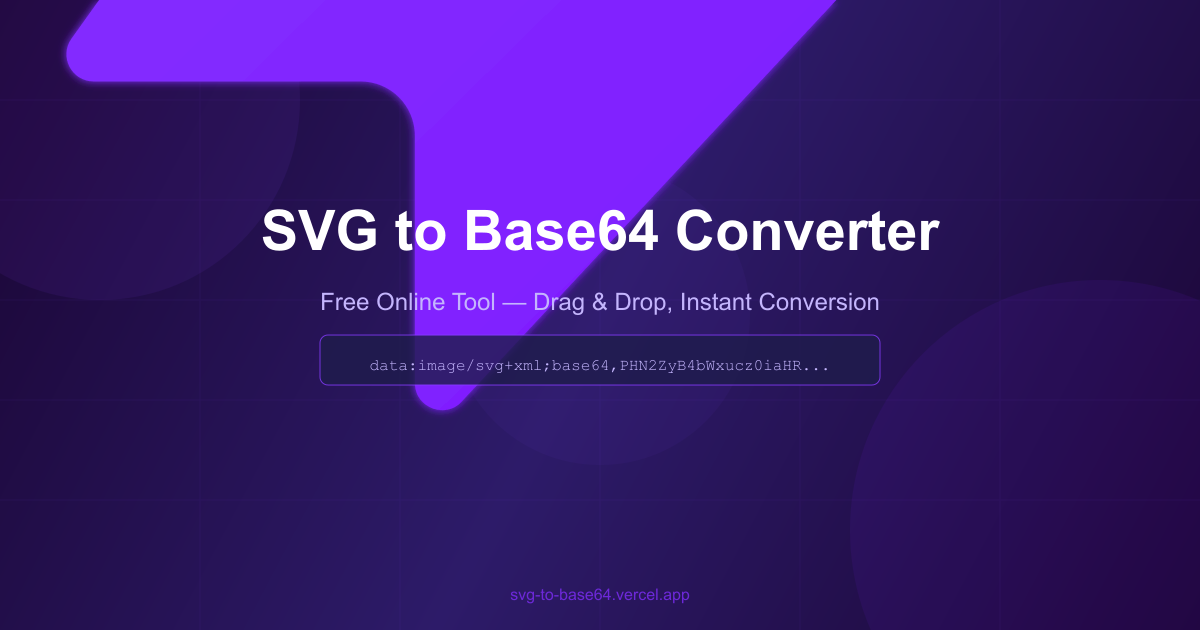
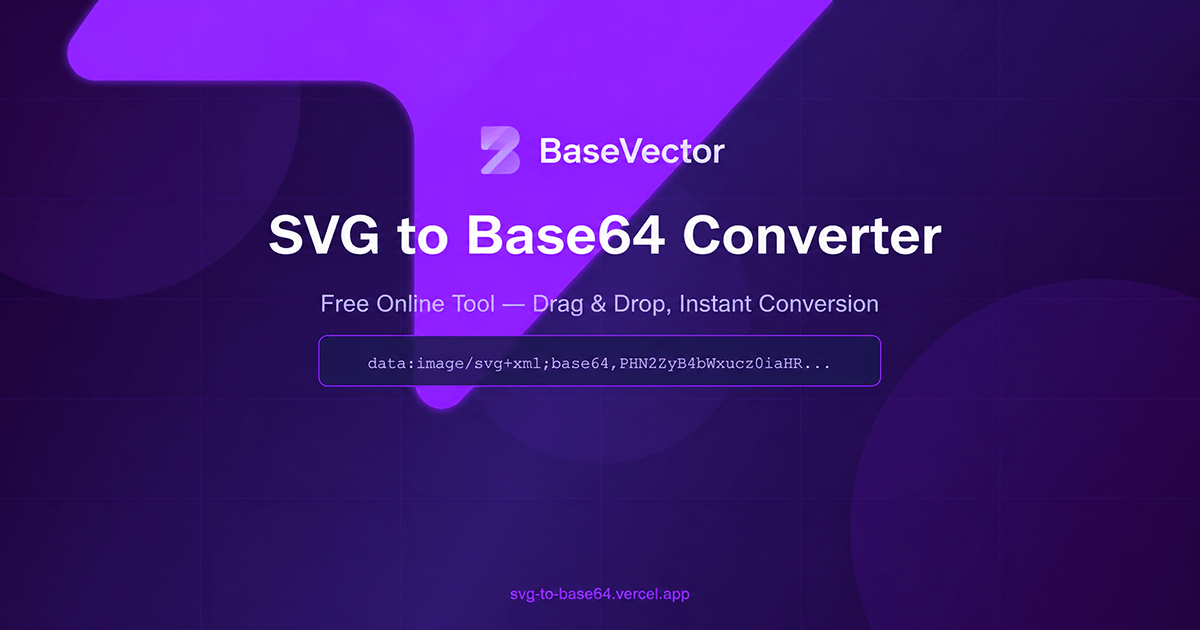
feat: rebrand to BaseVector
- Rename project from svg-to-base64 to BaseVector
- Update all metadata, titles, and descriptions
- Add BaseVector brand to Header, Footer, InfoSection, DonationCard
- Update package.json, site.webmanifest, sitemap.xml, README.md

diff --git a/app/layout.tsx b/app/layout.tsx
@@ -16,12 +16,13 @@ export const metadata: Metadata = {
     ],
   },
   title: {
-    default: 'SVG to Base64 Converter — Free Online Tool',
-    template: '%s | SVG to Base64 Converter',
+    default: 'BaseVector — Free SVG to Base64 Converter',
+    template: '%s | BaseVector',
   },
   description:
-    'Free SVG to Base64 online converter. Drag and drop SVG files to get Base64 strings, CSS background-image, or HTML img code instantly. No sign-up needed.',
+    'BaseVector — free online SVG to Base64 converter. Drag and drop SVG files to get Base64 strings, CSS background-image, or HTML img code instantly. No sign-up needed.',
   keywords: [
+    'BaseVector',
     'SVG to base64',
     'SVG converter',
     'base64 encoder',
@@ -51,9 +52,9 @@ export const metadata: Metadata = {
   },
   openGraph: {
     type: 'website',
-    siteName: 'SVG to Base64 Converter',
+    siteName: 'BaseVector',
     url: 'https://svg-to-base64.vercel.app/',
-    title: 'SVG to Base64 Converter — Free Online Tool',
+    title: 'BaseVector — Free SVG to Base64 Converter',
     description:
       'Convert SVG files to Base64 strings, CSS background-image, or HTML img code. Drag and drop, get ready-to-use code in multiple formats, copy with one click.',
     images: [
@@ -62,7 +63,7 @@ export const metadata: Metadata = {
         type: 'image/png',
         width: 1200,
         height: 630,
-        alt: 'SVG to Base64 Converter — Free Online Tool',
+        alt: 'BaseVector — Free SVG to Base64 Converter',
       },
     ],
     locale: 'en_US',
@@ -71,19 +72,19 @@ export const metadata: Metadata = {
     card: 'summary_large_image',
     site: '@modeusweb',
     creator: '@modeusweb',
-    title: 'SVG to Base64 Converter — Free Online Tool',
+    title: 'BaseVector — Free SVG to Base64 Converter',
     description:
       'Convert SVG files to Base64 strings, CSS background-image, or HTML img code. Free, fast, no sign-up.',
     images: [
       {
         url: 'https://svg-to-base64.vercel.app/og-image.png',
-        alt: 'SVG to Base64 Converter — Free Online Tool',
+        alt: 'BaseVector — Free SVG to Base64 Converter',
       },
     ],
   },
   category: 'technology',
   classification: 'Developer Tools',
-  applicationName: 'SVG to Base64 Converter',
+  applicationName: 'BaseVector',
 }
 
 export const viewport: Viewport = {
@@ -100,7 +101,7 @@ export default function RootLayout({
   return (
     <html lang="en">
       <head>
-        <meta name="apple-mobile-web-app-title" content="SVG to Base64" />
+        <meta name="apple-mobile-web-app-title" content="BaseVector" />
         <meta name="mobile-web-app-capable" content="yes" />
         <meta name="apple-mobile-web-app-status-bar-style" content="default" />
         <link rel="manifest" href="/site.webmanifest" />
@@ -112,10 +113,10 @@ export default function RootLayout({
             __html: JSON.stringify({
               '@context': 'https://schema.org',
               '@type': 'WebApplication',
-              name: 'SVG to Base64 Converter',
+              name: 'BaseVector',
               url: 'https://svg-to-base64.vercel.app/',
               description:
-                'Free online converter that turns SVG files into base64-encoded data URIs, CSS background-image rules, and HTML img code.',
+                'BaseVector — free online SVG to Base64 converter. Turns SVG files into base64-encoded data URIs, CSS background-image rules, and HTML img code.',
               applicationCategory: 'DeveloperApplication',
               operatingSystem: 'Any',
               browserRequirements: 'Requires JavaScript',

diff --git a/src/components/InfoSection.tsx b/src/components/InfoSection.tsx
@@ -3,24 +3,24 @@ export function InfoSection() {
   return (
     <article className="bg-white dark:bg-gray-800 rounded-xl p-6 shadow-lg">
       <h2 className="text-xl font-bold text-gray-800 dark:text-white mb-4">
-        What is an SVG to Base64 Converter?
+        What is BaseVector?
       </h2>
       <div className="text-gray-600 dark:text-gray-300 leading-relaxed text-sm space-y-4">
         <p>
-          An SVG to base64 converter is a free online tool that transforms Scalable Vector Graphics
+          BaseVector is a free online SVG to base64 converter that transforms Scalable Vector Graphics
           (SVG) files into base64-encoded data URIs. These encoded strings can be used directly in
           multiple formats: raw Base64 strings, CSS background-image rules, and HTML img tags. This
           eliminates extra HTTP requests and lets you embed icons and images inline — ideal for
           icon systems, CSS sprites, and performance optimization.
         </p>
         <p>
-          Simply drag and drop an SVG file into the upload area (or click to browse), and the
-          converter instantly generates ready-to-paste code in your chosen format with a live
+          Simply drag and drop an SVG file into the upload area (or click to browse), and BaseVector
+          instantly generates ready-to-paste code in your chosen format with a live
           preview. This free online tool supports files up to 4MB and includes features like zoom
           control, format minification, copy to clipboard, and download options.
         </p>
         <p>
-          Try this free online tool now — no registration required, no file uploads to servers.
+          Try BaseVector now — no registration required, no file uploads to servers.
           All conversion happens directly in your browser for maximum privacy and security.
         </p>
       </div>

diff --git a/src/components/Header.tsx b/src/components/Header.tsx
@@ -1,8 +1,13 @@
 export function Header() {
   return (
     <header className="text-center mb-8">
-      <h1 className="text-4xl md:text-5xl font-bold text-gray-800 dark:text-white mb-4">
-        SVG to Base64 Converter
+      <h1 className="mb-3">
+        <span className="block text-5xl md:text-6xl font-bold bg-gradient-to-br from-purple-700 via-violet-500 to-indigo-400 bg-clip-text text-transparent tracking-tight">
+          BaseVector
+        </span>
+        <span className="block text-xl md:text-2xl font-bold text-gray-700 dark:text-gray-200 mt-3">
+          Free SVG to Base64 Converter
+        </span>
       </h1>
       <p className="text-lg text-gray-600 dark:text-gray-300">
         Convert SVG files to Base64, CSS, and HTML formats

diff --git a/app/page.tsx b/app/page.tsx
@@ -88,8 +88,8 @@ function HomePage() {
         <section className="mt-8 max-w-7xl mx-auto" aria-label="Share this tool">
           <SocialSharing
             url="https://svg-to-base64.vercel.app/"
-            title="SVG to Base64 Converter — Free Online Tool"
-            description="Free SVG to Base64 online converter. Drag and drop SVG files to get Base64 strings, CSS background-image, or HTML img code instantly."
+            title="BaseVector — Free SVG to Base64 Converter"
+            description="BaseVector — free online SVG to Base64 converter. Drag and drop SVG files to get Base64 strings, CSS background-image, or HTML img code instantly."
           />
         </section>
 

diff --git a/src/components/DonationCard.tsx b/src/components/DonationCard.tsx
@@ -24,7 +24,7 @@ export function DonationCard({ walletCopied, onCopyWallet }: DonationCardProps) 
             Enjoying this tool?
           </h3>
           <p className="text-gray-600 dark:text-gray-300 leading-relaxed text-sm mb-4">
-            This SVG converter is free and will always stay free. If it saved you
+            This BaseVector SVG converter is free and will always stay free. If it saved you
             some time, consider buying me a coffee — every little bit keeps
             this project running and improving. ☕
           </p>

diff --git a/README.md b/README.md
@@ -1,10 +1,11 @@
-# SVG to Base64 Converter
+# BaseVector
 
 A modern web application that converts SVG files to multiple output formats with base64 encoding. Built with React, Next.js, and Tailwind CSS.
 
 ![React](https://img.shields.io/badge/React-19.3.0-blue)
 ![Next.js](https://img.shields.io/badge/Next.js-16.3.5-black)
 ![Tailwind CSS](https://img.shields.io/badge/Tailwind-4.0.0-38bdf8)
+![BaseVector](https://img.shields.io/badge/BaseVector-v1.0.0-863bff)
 
 
 ## Demo
@@ -92,7 +93,7 @@ npm run start
 - **Click to Upload**: Click the upload zone and select your SVG file from the file dialog
 
 ### Step 2: Automatic Conversion
-The application automatically converts your SVG to base64 format and displays the output in your selected format.
+The BaseVector application automatically converts your SVG to base64 format and displays the output in your selected format.
 
 ### Step 3: Choose Output Format
 Select from three available output formats:
@@ -246,7 +247,7 @@ Created with ❤ using React, Next.js, and Tailwind CSS
 
 ## Support This Project
 
-This tool is completely **free** and will always stay free. If it saved you some time and you'd like to support its development, consider buying me a coffee — every little bit helps keep this project running and improving. ☕
+BaseVector is completely **free** and will always stay free. If it saved you some time and you'd like to support its development, consider buying me a coffee — every little bit helps keep this project running and improving. ☕
 
 **USDT (TRC-20):** `TQZxZ2Ygh6RvkZDi5qswq8uF9KbDbDw9bo`
 
